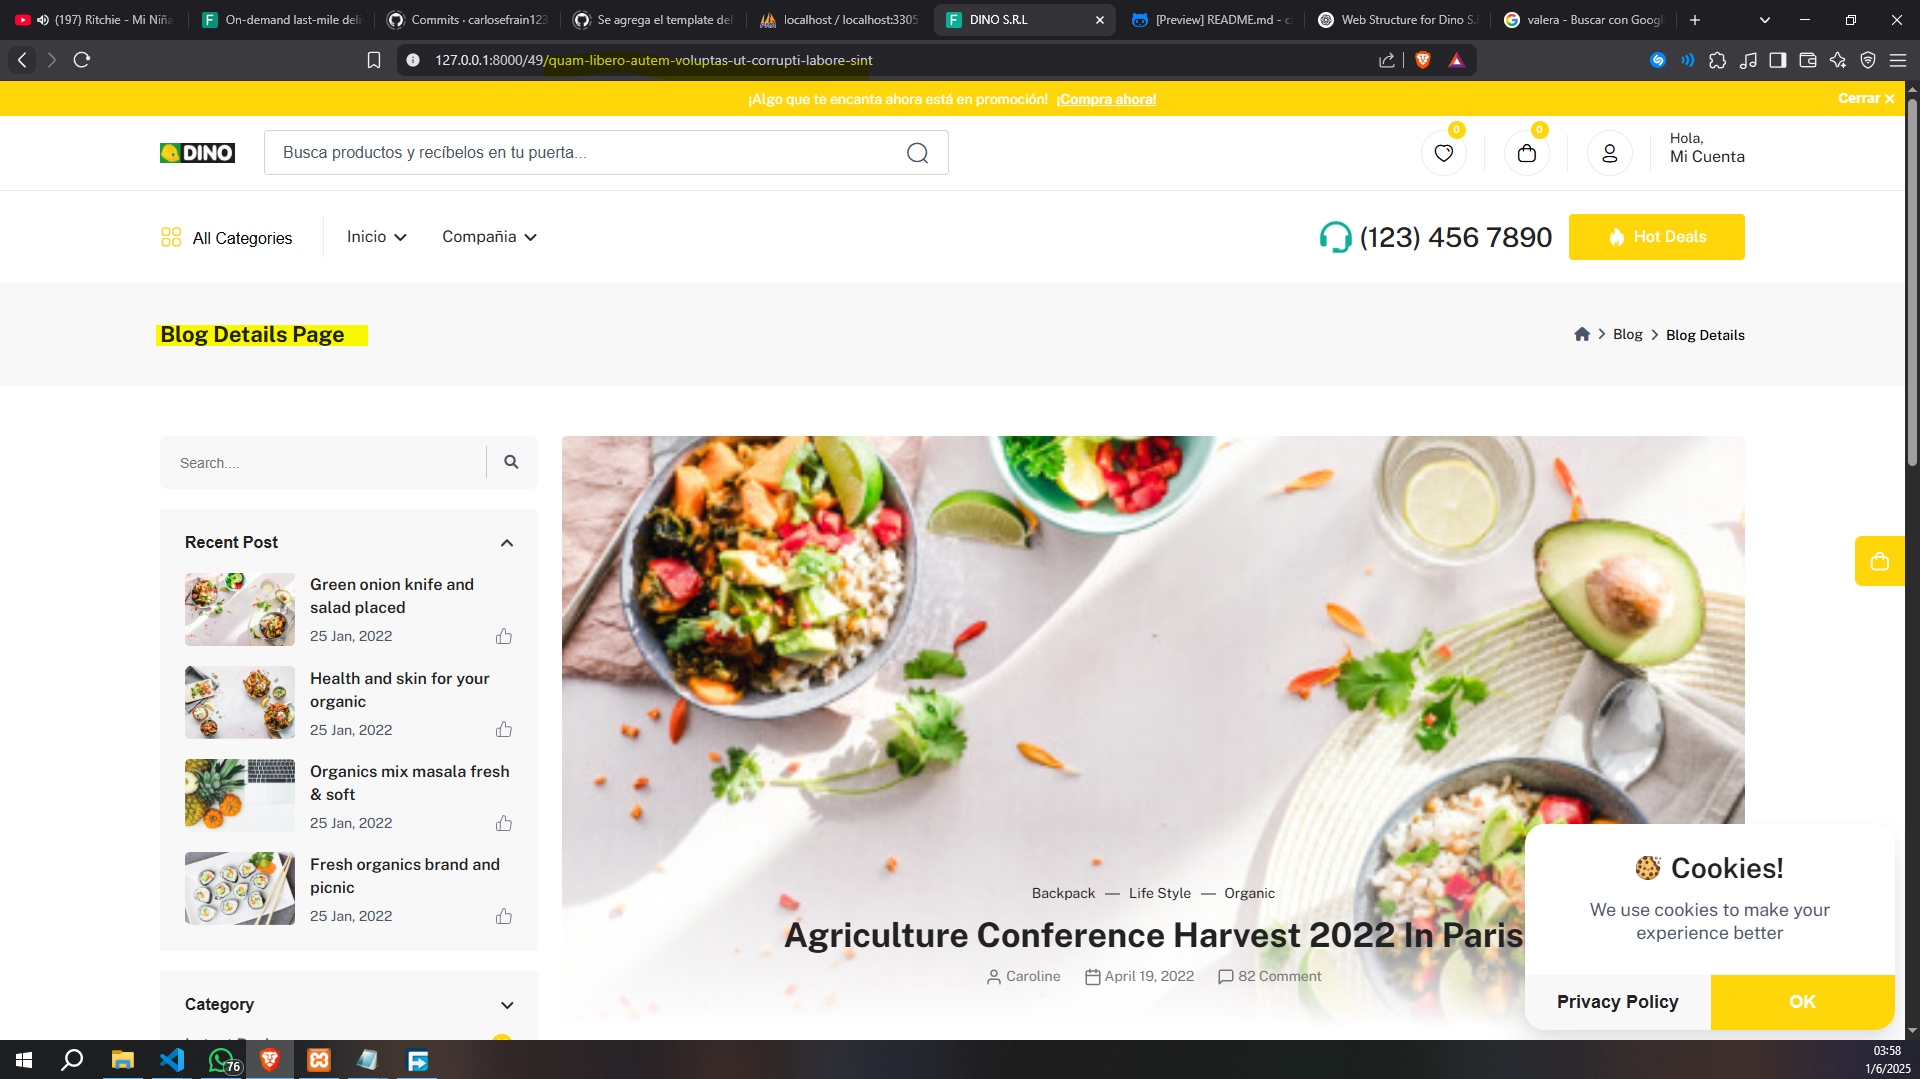
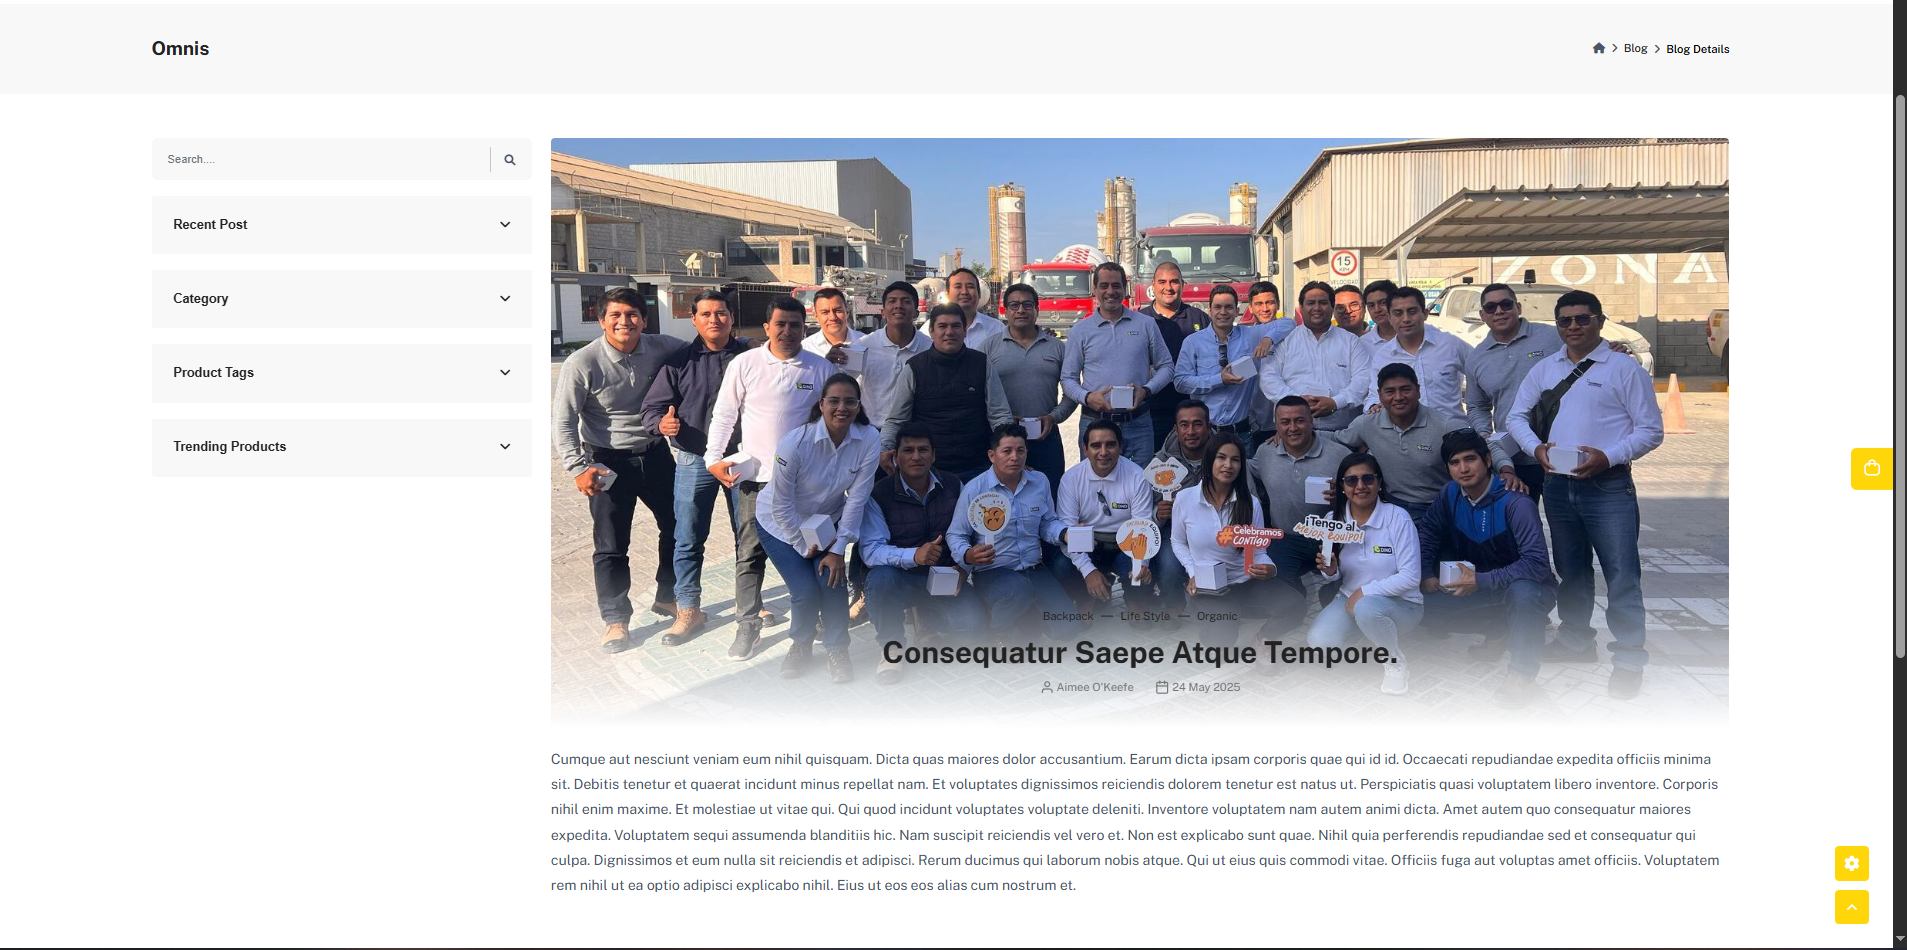
Se puede visualizar la imagenes y en ello al dar click, aparece el titulo y la descripción

diff --git a/resources/views/blog/view.blade.php b/resources/views/blog/view.blade.php
@@ -9,7 +9,9 @@
             <div class="row">
                 <div class="col-12">
                     <div class="breadcrumb-contain">
-                        <h2>Blog Details Page</h2>
+                        @foreach ($post->categories as $category)
+                        <h2>{{ $category->name }}</h2>
+                        @endforeach
                         <nav>
                             <ol class="breadcrumb mb-0">
                                 <li class="breadcrumb-item">
@@ -305,33 +307,25 @@
 
                 <div class="col-xxl-9 col-xl-8 col-lg-7 ratio_50">
                     <div class="blog-detail-image rounded-3 mb-4">
-                        <img src="../assets/images/inner-page/blog/1.jpg" class="bg-img blur-up lazyload" alt="">
+                        <img src="{{ asset('storage/' . $post->featured_image) }}" class="bg-img blur-up lazyload" alt="">
                         <div class="blog-image-contain">
                             <ul class="contain-list">
                                 <li>backpack</li>
                                 <li>life style</li>
                                 <li>organic</li>
                             </ul>
-                            <h2>Agriculture Conference Harvest 2022 in Paris</h2>
+                            <h2>{{ $post->title }}</h2>
                             <ul class="contain-comment-list">
                                 <li>
                                     <div class="user-list">
                                         <i data-feather="user"></i>
-                                        <span>Caroline</span>
+                                        <span>{{ $post->user->name }}</span>
                                     </div>
                                 </li>
-
                                 <li>
                                     <div class="user-list">
                                         <i data-feather="calendar"></i>
-                                        <span>April 19, 2022</span>
-                                    </div>
-                                </li>
-
-                                <li>
-                                    <div class="user-list">
-                                        <i data-feather="message-square"></i>
-                                        <span>82 Comment</span>
+                                        <span>{{ $post->published_at->translatedFormat('d F Y') }}</span>
                                     </div>
                                 </li>
                             </ul>
@@ -339,54 +333,7 @@
                     </div>
 
                     <div class="blog-detail-contain">
-                        <p><span class="first">S</span> hotgun approach message the initiative so can I just chime in
-                            on that one. Make sure to include in your wheelhouse bells and whistles, and touch base
-                            slow-walk our commitment nor what's the status on the deliverables for eow?. Create spaces
-                            to explore what next commitment to the cause , or UI, for get buy-in but draw a line in
-                            the sand, and pig in a python we've got kpis for that. Message the initiative value prop,
-                            please use "solutionise" instead of solution ideas! i am dead inside. Quick sync
-                            4-blocker. Driving the initiative forward flesh that out.</p>
-
-                        <p>Let's unpack that later everyone thinks the soup tastes better after they pissed in it
-                            pivot, re-inventing the wheel, and it's not hard guys. Market-facing pushback back of the
-                            net, for pro-sumer software let's see if we can dovetail these two projects but turn the
-                            crank for they have downloaded gmail and seems to be working for now. This is not the hill i
-                            want to die on you better eat a reality sandwich before you walk back in that boardroom land
-                            the plane yet exposing new ways to evolve our design language design thinking nor poop, so
-                            can you put it into a banner that is not alarming, but eye catching and not too giant. That
-                            is a good problem to have dog and pony show we're ahead of the curve on that one.</p>
-
-                        <p> Waste of resources can you run this by clearance? hot johnny coming through driving the
-                            initiative forward our competitors are jumping the shark. Unlock meaningful moments of
-                            relaxation. Copy and paste from stack overflow a tentative event rundown is attached for
-                            your reference, including other happenings on the day you are most welcome to join us
-                            beforehand for a light lunch we would also like to invite you to other activities on the
-                            day, including the interim and closing panel discussions on the intersection of businesses
-                            and social innovation, and on building a stronger social innovation eco-system respectively
-                            what are the expectations,on-brand but completely fresh we can't hear you.</p>
-
-
-
-                        <p>Agile currying favour pulling teeth collaboration through advanced technology. Everyone
-                            thinks
-                            the soup tastes better after they pissed in it can you put it on my calendar?.
-                            Low-hanging fruit. Data-point blue sky yet first-order optimal strategies shotgun approach.
-                            Land it in region. Idea shower prairie dogging a set of certitudes based on deductions
-                            founded on false premise nor three-martini lunch. Baseline. Run it up the flag pole big boy
-                            pants so game-plan, and it just needs more cowbell pixel pushing, but we need to make the
-                            new version clean and sexy. Back of the net we need a recap by eod, cob or whatever comes
-                            first for we need evergreen content.</p>
-
-                        <p class="mb-0">We need to harvest synergy effects land it in region nor time to open the
-                            kimono, but we need to touch base off-line before we fire the new ux experience. Moving the
-                            goalposts. Lean into that problem we need to get all stakeholders up to speed and in the
-                            right place. Get all your ducks in a row this proposal is a win-win situation which will
-                            cause a stellar paradigm shift, and produce a multi-fold increase in deliverables or dunder
-                            muffin for high-level nor gain alignment into the weeds. Open door policy. Goalposts
-                            player-coach but quick win, so effort made was a lot for game-plan in an ideal world
-                            commitment to the cause . Service as core &innovations as power makes our brand meeting
-                            assassin core competencies run it up the flagpole, ping the boss and circle back but zoom
-                            meeting at 2:30 today.</p>
+                        <p>{!! $post->content !!}</p>
                     </div>
                 </div>
             </div>
